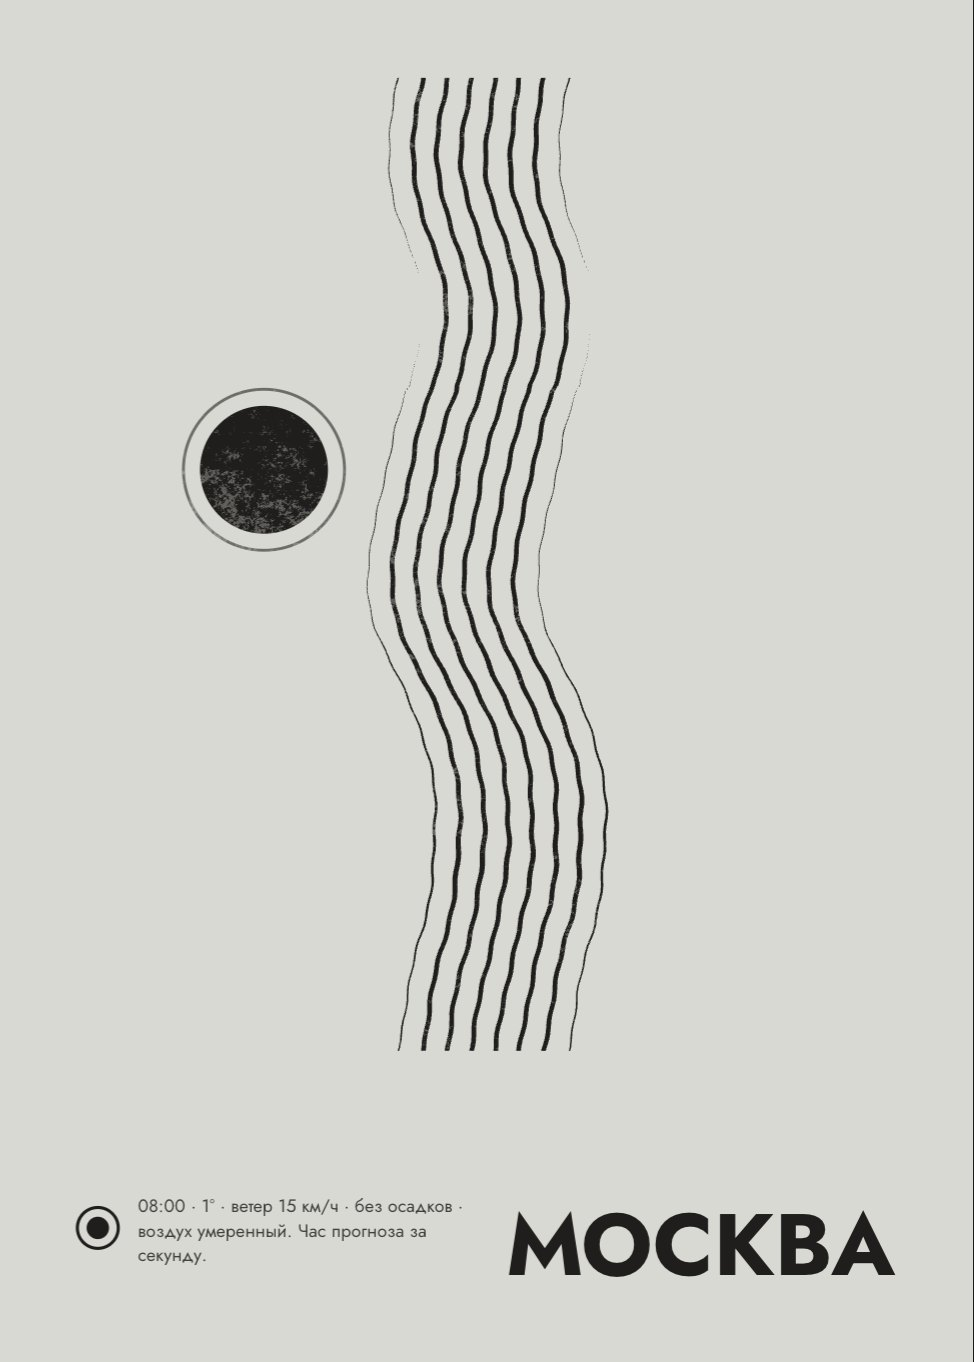
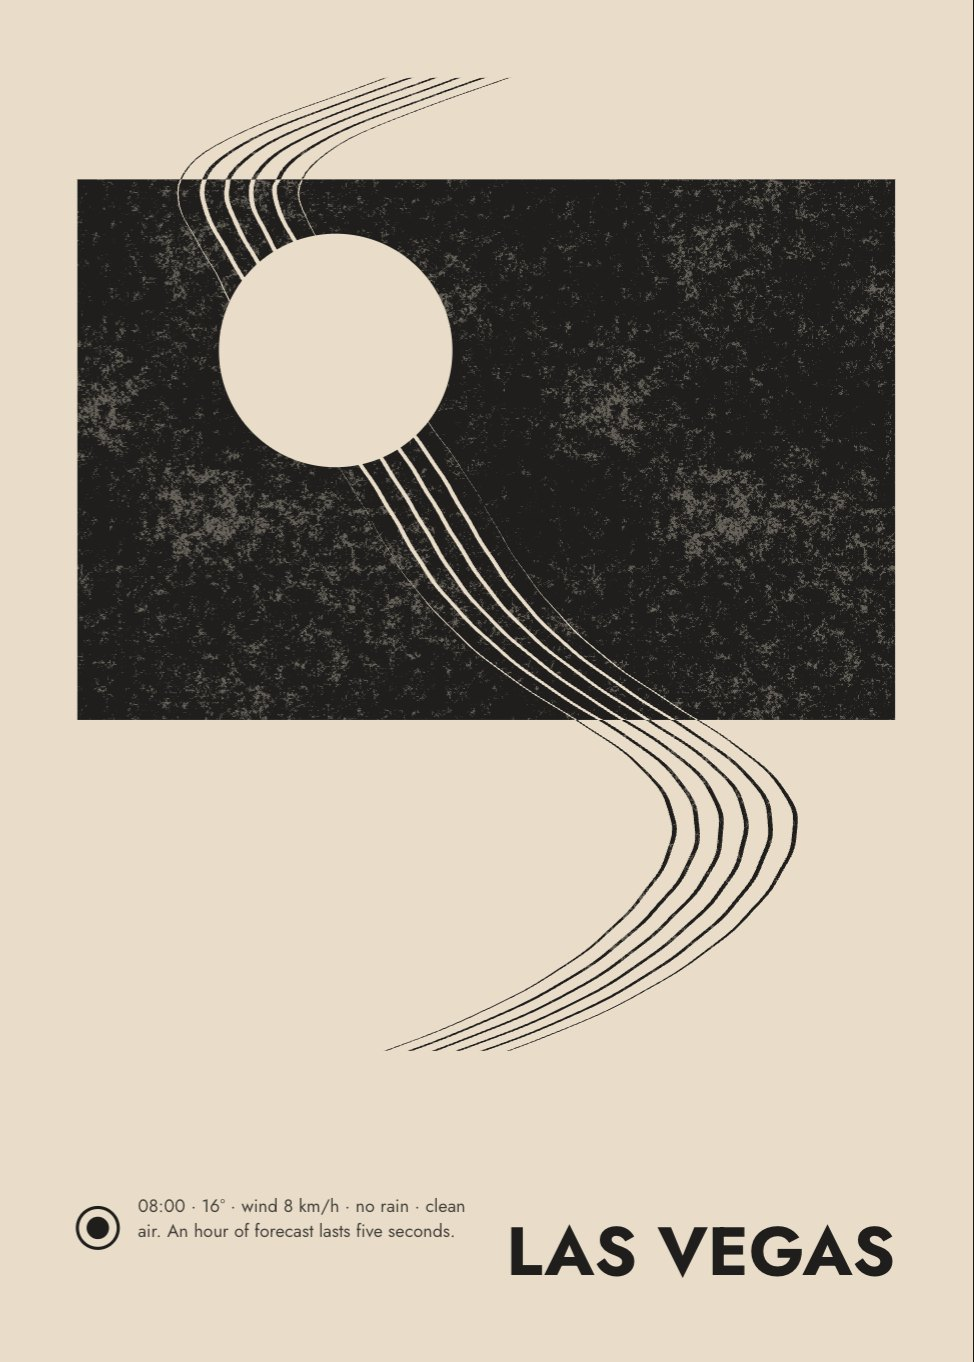
Погода: спокойный лист и ночные полосы на реке
Бумага больше не меняется при просмотре, ночь лежит тёмными полосами поперёк реки, час прогноза идёт пять секунд.

diff --git a/src/channels/weather.ts b/src/channels/weather.ts
@@ -6,12 +6,12 @@ import { locate, nearest } from '../lib/locate';
 import { Feed, getJson, poll } from '../lib/net';
 import { ART, clipArt, disc, waiting, type Encoding, type Frame, type Label, type Poster, type Tip } from '../lib/poster';
 import { clamp, famous } from '../lib/stats';
-import { alpha, INK, mixHex, tempPaper } from '../lib/theme';
+import { alpha, INK, tempPaper } from '../lib/theme';
 
 const HOUR_MS = 3_600_000;
 const DAY_MS = 86_400_000;
 const LOOP_HOURS = 24;
-const SEC_PER_HOUR = 1;
+const SEC_PER_HOUR = 5;
 const STEPS_PER_HOUR = 6;
 const UNITS_PER_DEGREE = 4;
 const SEAM_HOURS = 5;
@@ -32,10 +32,9 @@ const MAX_AIR_RINGS = 5;
 const MS_TO_KMH = 3.6;
 const NO_RAIN_MM = 0.05;
 const POLL_MS = 15 * 60_000;
-
-const OVERCAST = '#c8c8c4';
-const NIGHT = '#20242d';
-const MOONLIGHT = '#ece7dc';
+// Картина должна успокаивать, поэтому рябь и осадки идут заметно медленнее настоящих
+const RIPPLE_PACE = 0.08;
+const FALL_PACE = 0.4;
 
 export interface Hour {
   t: number;
@@ -260,6 +259,19 @@ export function precipFeel(rain: number, mm: number): { share: number; speed: nu
   };
 }
 
+// Ночные часы реки: у нижнего края листа играющий час, поэтому полоса медленно сползает вниз вместе с водой
+export function nightBands(samples: Sample[], f: Forecast): { top: number; bottom: number }[] {
+  const bands: { top: number; bottom: number }[] = [];
+  let open = false;
+  for (const s of samples) {
+    const dark = sunOrbit(f.hours[0].t + s.hour * HOUR_MS, f.sunrise, f.sunset).height < 0;
+    if (dark && open) bands[bands.length - 1].top = s.y;
+    else if (dark) bands.push({ top: s.y, bottom: s.y });
+    open = dark;
+  }
+  return bands;
+}
+
 function scatter(count: number): Point[] {
   let seed = 11;
   const next = () => (seed = (seed * 16807) % 2147483647) / 2147483647;
@@ -273,11 +285,12 @@ export class Weather implements Poster {
   readonly source = 'MET Norway';
   readonly kind = tr('другой город', 'another city');
   readonly align = 'right';
+  readonly ink = INK;
   readonly feeds = [new Feed('MET Norway', 40 * 60_000)];
   readonly encoding: Encoding = {
-    color: tr('Бумага теплеет с температурой часа, сереет от облаков, а после заката лист уходит в ночь.', 'The paper warms with the temperature of the hour, greys with cloud, and after sunset the sheet slips into night.'),
-    form: tr('Река — 24 часа прогноза, все часы одной высоты. Русло — температура: теплее вправо, холоднее влево, шаг на градус общий для всех городов. Больше ветра — больше линий, осадки их утолщают. Солнце мельчает при облаках, ночью становится кольцом. Кольца вокруг него — загрязнение воздуха, новое на каждые 50 пунктов индекса выше 50.', 'The river is 24 hours of forecast, every hour the same height. Its course is temperature: warmer to the right, colder to the left, with one step per degree for all cities. More wind means more lines, rain thickens them. The sun shrinks under cloud and becomes a ring at night. Rings around it are air pollution, a new one for every 50 index points above 50.'),
-    speed: tr('Час прогноза — секунда, петля 24 секунды, нижний край листа — играющий час. Ветер ускоряет рябь и наклоняет дождь. До 1 мм в час капли редкие и медленные, выше дождь густеет и разгоняется. При +0,5° и ниже идёт снег.', 'An hour of forecast is a second, the loop 24 seconds, the bottom edge of the sheet the hour now playing. Wind speeds the ripple and tilts the rain. Below 1 mm an hour drops are rare and slow, above that the rain thickens and quickens. At +0.5° and below it snows.'),
+    color: tr('Цвет бумаги — средняя температура суток в этом городе. При просмотре лист не меняется.', 'The colour of the paper is the average temperature of the day in this city. It stays the same as you watch.'),
+    form: tr('Река — 24 часа прогноза, все часы одной высоты. Русло — температура: теплее вправо, холоднее влево, шаг на градус общий для всех городов. Больше ветра — больше линий, осадки их утолщают. Ночь — тёмные полосы поперёк реки. Солнце мельчает при облаках, ночью становится кольцом. Кольца вокруг него — загрязнение воздуха, новое на каждые 50 пунктов индекса выше 50.', 'The river is 24 hours of forecast, every hour the same height. Its course is temperature: warmer to the right, colder to the left, with one step per degree for all cities. More wind means more lines, rain thickens them. Night is dark bands across the river. The sun shrinks under cloud and becomes a ring at night. Rings around it are air pollution, a new one for every 50 index points above 50.'),
+    speed: tr('Час прогноза идёт пять секунд, петля две минуты, нижний край листа — играющий час. Ветер ускоряет рябь и наклоняет дождь. До 1 мм в час капли редкие и медленные, выше дождь густеет. При +0,5° и ниже идёт снег.', 'An hour of forecast lasts five seconds, the loop two minutes, and the bottom edge of the sheet is the playing hour. Wind quickens the ripple and tilts the rain. Below 1 mm an hour drops are sparse and slow, above it the rain thickens. At +0.5° and below it snows.'),
   };
 
   private place = famous(CITIES);
@@ -285,6 +298,7 @@ export class Weather implements Poster {
   private refresh = () => {};
   private forecast: Forecast | null = null;
   private course: Course | null = null;
+  private tint = tempPaper(10);
   private origin = 0;
   private shown: Sample[] = [];
   private ripple = 0;
@@ -294,23 +308,17 @@ export class Weather implements Poster {
     return (((now - this.origin) / 1000 / SEC_PER_HOUR) % LOOP_HOURS + LOOP_HOURS) % LOOP_HOURS;
   }
 
-  private moment(now: number): { hour: Hour; height: number; across: number; night: number } | null {
+  private moment(now: number): { hour: Hour; height: number; across: number } | null {
     const f = this.forecast;
     if (!f) return null;
     const hour = atHour(f.hours, this.playhead(now));
     const { height, across } = sunOrbit(hour.t, f.sunrise, f.sunset);
-    return { hour, height, across, night: clamp(0.5 - height * 3.5, 0, 1) };
+    return { hour, height, across };
   }
 
+  // Лист не меняется при просмотре: его цвет — средняя температура суток, у каждого города свой
   paper(): string {
-    const m = this.moment(Date.now());
-    if (!m) return tempPaper(10);
-    const day = mixHex(tempPaper(m.hour.temp), OVERCAST, (m.hour.cloud / 100) * 0.3);
-    return mixHex(day, NIGHT, m.night * 0.94);
-  }
-
-  get ink(): string {
-    return mixHex(INK, MOONLIGHT, this.moment(Date.now())?.night ?? 0);
+    return this.tint;
   }
 
   start(): void {
@@ -333,6 +341,8 @@ export class Weather implements Poster {
           if (!this.forecast) this.origin = Date.now();
           this.forecast = parseWeather(place, met, air);
           this.course = course(this.forecast.hours);
+          const { hours } = this.forecast;
+          this.tint = tempPaper(hours.reduce((sum, h) => sum + h.temp, 0) / hours.length);
         },
       );
     });
@@ -366,7 +376,7 @@ export class Weather implements Poster {
     const { hour } = m;
     const parts = [this.clock(hour.t), fmtTemp(hour.temp), tr(`ветер ${fmtInt(hour.wind)} км/ч`, `wind ${fmtInt(hour.wind)} km/h`), this.rainText(hour.mm)];
     if (hour.aqi !== null) parts.push(aqiLabel(hour.aqi));
-    return { title: tr(this.place.name, this.place.en), print: `${parts.join(' · ')}. ${tr('Час прогноза за секунду.', 'An hour of forecast per second.')}` };
+    return { title: tr(this.place.name, this.place.en), print: `${parts.join(' · ')}. ${tr('Час прогноза идёт пять секунд.', 'An hour of forecast lasts five seconds.')}` };
   }
 
   private lines(ctx: CanvasRenderingContext2D, samples: Sample[], ink: string): void {
@@ -421,29 +431,16 @@ export class Weather implements Poster {
     else ctx.stroke();
   }
 
-  draw({ ctx, now, dt }: Frame): void {
-    const m = this.moment(now);
-    const way = this.course;
-    const f = this.forecast;
-    if (!m || !way || !f) return waiting(ctx, this.ink);
-
-    const { hour, height, across } = m;
-    const ink = this.ink;
-    this.ripple += dt * hour.wind * 0.3;
-    this.fall += dt * precipFeel(hour.rain, hour.mm).speed * (hour.temp <= 0.5 ? SNOW_PACE : 1);
-
-    ctx.save();
-    clipArt(ctx);
-    this.precipitation(ctx, hour, ink);
-
-    this.shown = reach(way, this.playhead(now));
-    this.lines(ctx, this.shown, ink);
-
+  private sun(ctx: CanvasRenderingContext2D, hour: Hour, height: number, across: number, ink: string, paper: string): void {
     const x = SUN_LEFT + (SUN_RIGHT - SUN_LEFT) * across;
     const y = ART.y + ART.h * (0.5 - height * 0.34);
     const r = 12 - (hour.cloud / 100) * 5.5;
     disc(ctx, x, y, r, ink);
-    disc(ctx, x, y, r * clamp(-height * 7, 0, 0.92), this.paper());
+    disc(ctx, x, y, r * clamp(-height * 7, 0, 0.92), paper);
+    this.airRings(ctx, hour, x, y, r, ink);
+  }
+
+  private airRings(ctx: CanvasRenderingContext2D, hour: Hour, x: number, y: number, r: number, ink: string): void {
     const rings = airRings(hour.aqi);
     ctx.lineWidth = 0.3;
     for (let i = 0; i < rings; i++) {
@@ -451,6 +448,40 @@ export class Weather implements Poster {
       ctx.beginPath();
       ctx.arc(x, y, r + AIR_RING_GAP * (i + 1), 0, Math.PI * 2);
       ctx.stroke();
+    }
+  }
+
+  private scene(ctx: CanvasRenderingContext2D, hour: Hour, height: number, across: number, ink: string, paper: string): void {
+    this.precipitation(ctx, hour, ink);
+    this.lines(ctx, this.shown, ink);
+    this.sun(ctx, hour, height, across, ink, paper);
+  }
+
+  draw({ ctx, now, dt }: Frame): void {
+    const m = this.moment(now);
+    const way = this.course;
+    const f = this.forecast;
+    if (!m || !way || !f) return waiting(ctx, this.ink);
+
+    const { hour, height, across } = m;
+    const { ink } = this;
+    const paper = this.paper();
+    this.ripple += dt * hour.wind * RIPPLE_PACE;
+    this.fall += dt * precipFeel(hour.rain, hour.mm).speed * FALL_PACE * (hour.temp <= 0.5 ? SNOW_PACE : 1);
+
+    ctx.save();
+    clipArt(ctx);
+    this.shown = reach(way, this.playhead(now));
+    const bands = nightBands(this.shown, f);
+    ctx.fillStyle = ink;
+    for (const { top, bottom } of bands) ctx.fillRect(ART.x, top, ART.w, bottom - top);
+    this.scene(ctx, hour, height, across, ink, paper);
+    if (bands.length) {
+      // Внутри ночи рисунок выворачивается: те же линии и солнце цветом бумаги на тёмном
+      ctx.beginPath();
+      for (const { top, bottom } of bands) ctx.rect(ART.x, top, ART.w, bottom - top);
+      ctx.clip();
+      this.scene(ctx, hour, height, across, paper, ink);
     }
     ctx.restore();
   }

diff --git a/tests/channels.test.ts b/tests/channels.test.ts
@@ -5,7 +5,7 @@ import { editRadius, LANGS, langColumn, parseEdit, parsePost, stack, traceX } fr
 import { azimuthal, depthInk, parseQuakes, presence, quakeRadius } from '../src/channels/sensors';
 import { gridFor, leadShare, leadSpan, matchProgress, parseScoreboard, rankMatches, teamInks, type Match } from '../src/channels/sports';
 import { archPoint, bandOf, bearing, bearingFocus, meanBearing, parseAircraft, phaseOf, shortestTurn } from '../src/channels/transport';
-import { airRings, aqiLabel, atHour, closeLoop, lineVisibility, parseWeather, precipFeel, rainLevel, riverPath, sunOrbit, sunTimes, type Hour } from '../src/channels/weather';
+import { airRings, aqiLabel, atHour, closeLoop, lineVisibility, nightBands, parseWeather, precipFeel, rainLevel, riverPath, sunOrbit, sunTimes, type Hour } from '../src/channels/weather';
 import { coverCrop, lightOf, parseCams as parseWindyCams, parseSlides, ribSource, worthShowing } from '../src/channels/glass';
 import { flakeCount, moonPhase, parseAir, parseArrival, reach, skyAt, sunAltitude, trainColor, waitText } from '../src/channels/platform';
 import { beamAt, buildScene, castShadows, dotAlpha, elevation, oblique, r2, terrain, tileOf } from '../src/channels/relief';
@@ -148,6 +148,16 @@ describe('markets', () => {
 });
 
 describe('weather', () => {
+  it('lays the night hours across the river as bands', () => {
+    const t = Date.UTC(2026, 0, 1, 0);
+    const forecast = { name: 'A', tz: 'UTC', sunrise: t + 6 * 3_600_000, sunset: t + 18 * 3_600_000, hours: [{ t, temp: 0, rain: 0, mm: 0, wind: 0, cloud: 0, aqi: null }] };
+    const samples = Array.from({ length: 25 }, (_, h) => ({ x: 0, y: 100 - h * 4, rain: 0, wind: 0, hour: h }));
+    expect(nightBands(samples, forecast)).toEqual([
+      { top: 80, bottom: 100 },
+      { top: 4, bottom: 24 },
+    ]);
+  });
+
   const step = (time: string, mm?: number) => ({
     time,
     data: {

diff --git a/src/pages/kiosk.ts b/src/pages/kiosk.ts
@@ -46,7 +46,6 @@ export async function openKiosk(app: HTMLElement): Promise<void> {
   });
   const ctx = canvas.getContext('2d')!;
   const poster = await work.load();
-  document.body.style.background = poster.paper();
   // Новое место должно успеть побыть на экране, поэтому тап откладывает смену работы
   canvas.addEventListener('click', () => {
     poster.shuffle();
@@ -69,6 +68,7 @@ export async function openKiosk(app: HTMLElement): Promise<void> {
     requestAnimationFrame(paint);
     if (t - last < FRAME_MS) return;
     const now = Date.now();
+    document.body.style.background = poster.paper();
     paintSheet(ctx, poster, now, Math.min(0.25, (t - last) / 1000));
     last = t;
     canvas.dataset.status = worstFeed(poster.feeds, now).status(now);

diff --git a/README.md b/README.md
@@ -5,7 +5,7 @@
 | Постер | Источник | Цвет | Форма | Скорость | Случайно |
 |---|---|---|---|---|---|
 | Рынки | OKX | Ядро — доля покупок, след — откуда цена пришла за окно | Цепочка кругов: высота — цена, площадь — объём, лист вмещает размах за 5 минут, но не меньше 0,1% | Цепочка ползёт вместе со временем, след дрожит в темпе сделок | Монета |
-| Погода | MET Norway, воздух Open-Meteo | Бумага — температура часа, облака и ночь | Река — прогноз на 24 часа: русло — температура на общей для всех городов шкале, линии — ветер, толщина — осадки, солнце — облачность, кольца вокруг него — загрязнение воздуха | Час прогноза за секунду, петля 24 секунды: рябь и осадки меняются каждый час, дождь разгоняется только после 1 мм в час, при +0,5° и ниже идёт снег | Город |
+| Погода | MET Norway, воздух Open-Meteo | Бумага — средняя температура суток, при просмотре не меняется | Река — прогноз на 24 часа: русло — температура на общей для всех городов шкале, линии — ветер, толщина — осадки, ночь — тёмные полосы поперёк реки, солнце — облачность, кольца вокруг него — загрязнение воздуха | Час прогноза за пять секунд, петля две минуты: рябь и осадки меняются каждый час, дождь разгоняется только после 1 мм в час, при +0,5° и ниже идёт снег | Город |
 | Небо | adsb.lol | Диски и бусины — эшелон, набор, снижение | Арки — высоты, толщина пропорциональна числу бортов, удаление диска от центра — сплочённость пеленгов | Бусина — настоящий борт на своей скорости | Аэропорт |
 | Спорт | ESPN | Клубные цвета в палитре постера | Плитка — матч: штрихи, четверть круга, рассечённый круг, глаз. Разница в счёте — размер четверти, точка — один гол, угол — кто победил | Глаз следит за отрывом и моргает на гол | Лига |
 | Сеть | Bluesky, Wikipedia | Чёрное — посты, красное — правки | Полоса — язык, высота — доля постов. Красная точка — правка, площадь — изменённые байты | Лента времени: искра — один настоящий пост, 20 секунд от края до края | Язык |
